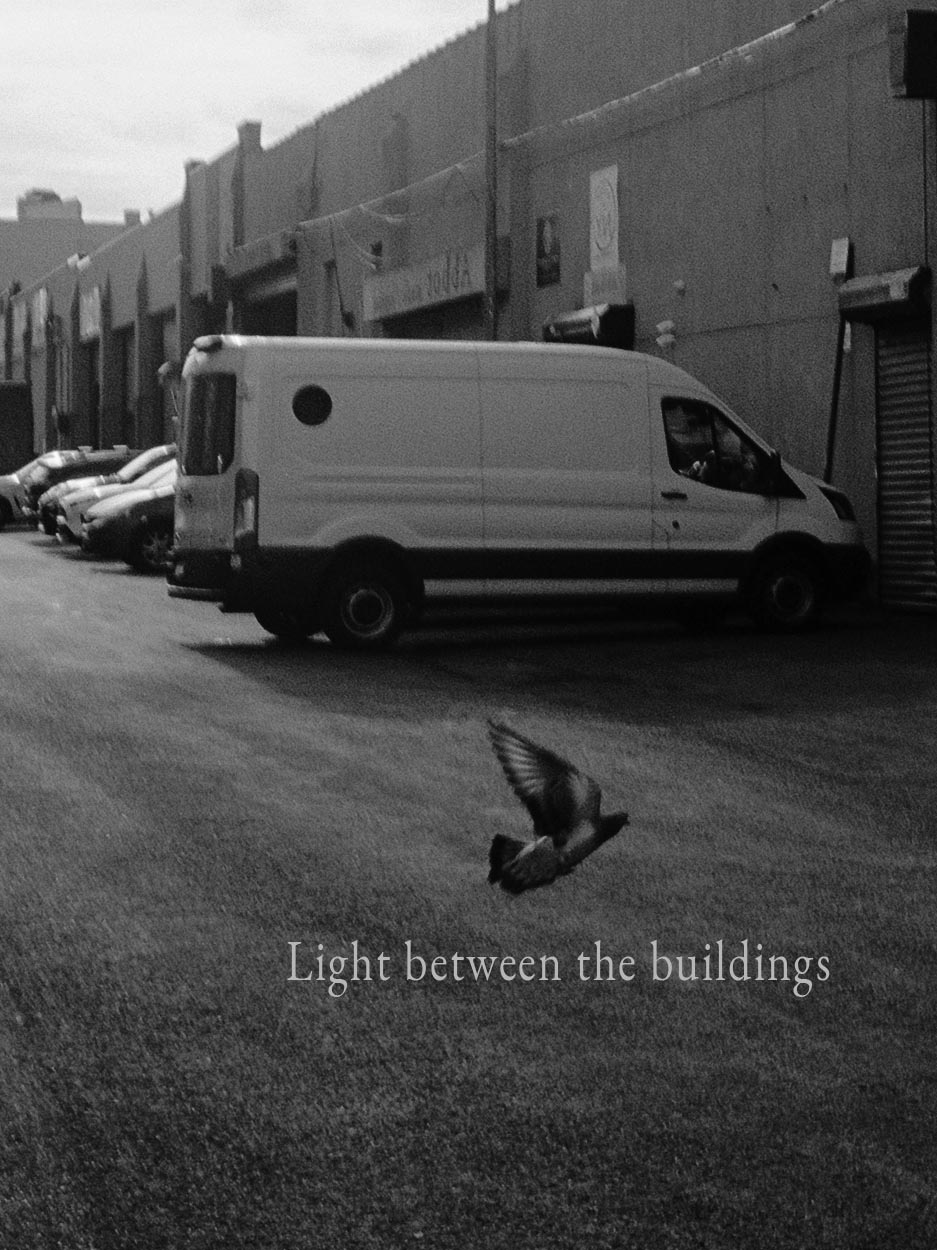
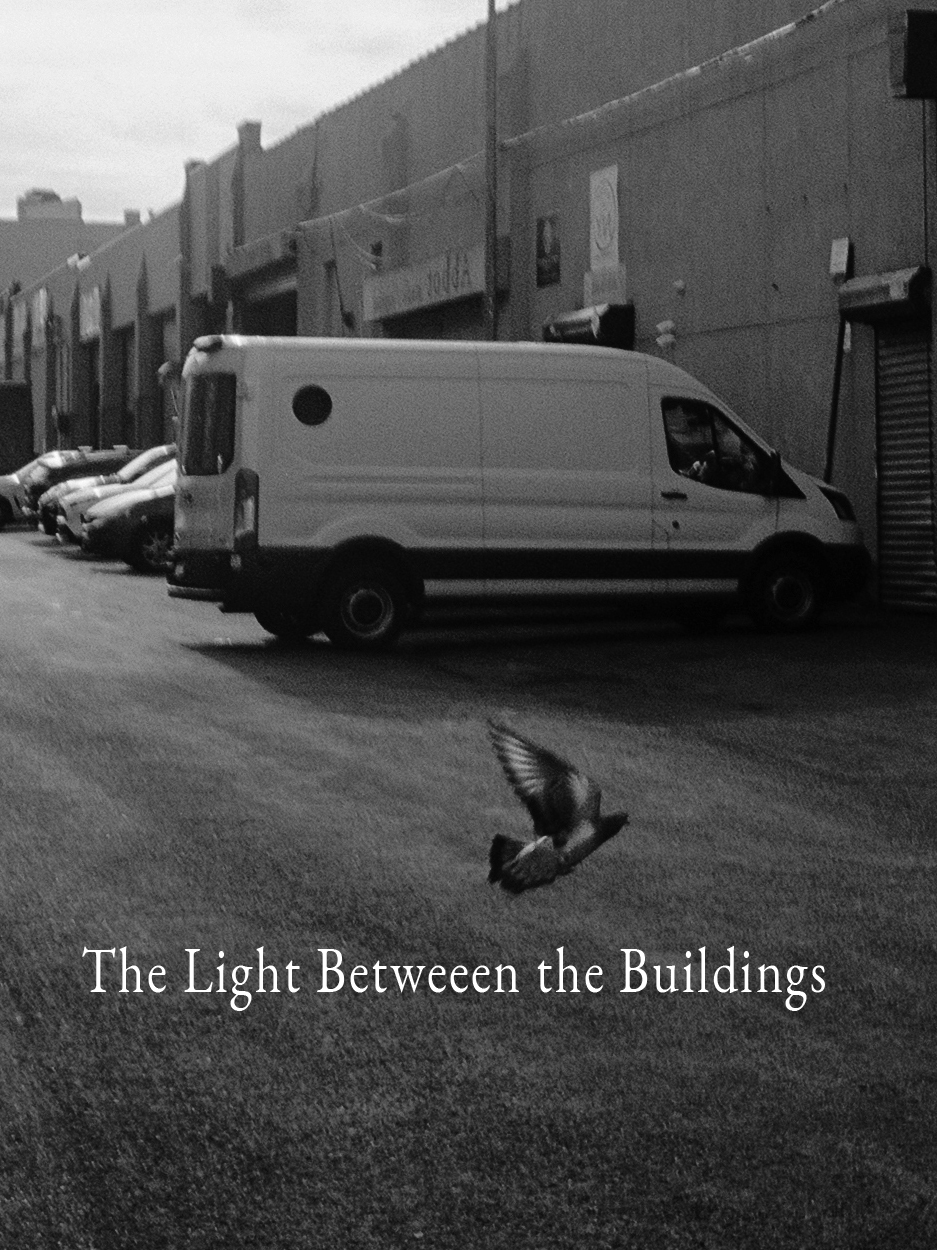
Add files via upload

Changed region(s): [[0.0928, 0.7488, 0.8975, 0.8112], [0.5261, 0.5928, 0.588, 0.624], [0.5571, 0.6552, 0.588, 0.6864]]

diff --git a/index.html b/index.html
@@ -78,7 +78,7 @@
         <span class="project-number">02</span>
 
         <div>
-          <h1>LIGHT BETWEEN THE BUILDINGS</h1>
+          <h1>THE LIGHT BETWEEN THE BUILDINGS</h1>
           <p>PHOTOZINE / 2026</p>
         </div>
       </div>
@@ -86,12 +86,12 @@
       <a
         href="light-between-the-buildings/"
         class="book-link"
-        aria-label="View Light Between the Buildings"
+        aria-label="View The Light Between the Buildings"
       >
         <div class="book-wrap smaller">
           <img
             src="images/light-cover.jpg"
-            alt="Light Between the Buildings"
+            alt="The Light Between the Buildings"
             class="book"
           >
         </div>

diff --git a/script.js b/script.js
@@ -159,7 +159,7 @@ let mobileScrollTicking = false;
 const MOBILE_THEME_HANDOFF = 145;
 
 /*
-  Light Between the Building should take over later on mobile.
+  The Light Between the Buildings should take over later on mobile.
   Requiring a larger advantage before switching to the dark theme
   keeps the Somewhere to Be color on screen longer.
 */

diff --git a/style.css b/style.css
@@ -793,7 +793,7 @@ body.theme-light .book {
   /*
     Mobile alignment:
     both books share the same left edge for a cleaner vertical rhythm.
-    Light Between the Buildings stays intentionally smaller.
+    The Light Between the Buildings stays intentionally smaller.
   */
   .book-wrap {
     width: min(68vw, 305px);
